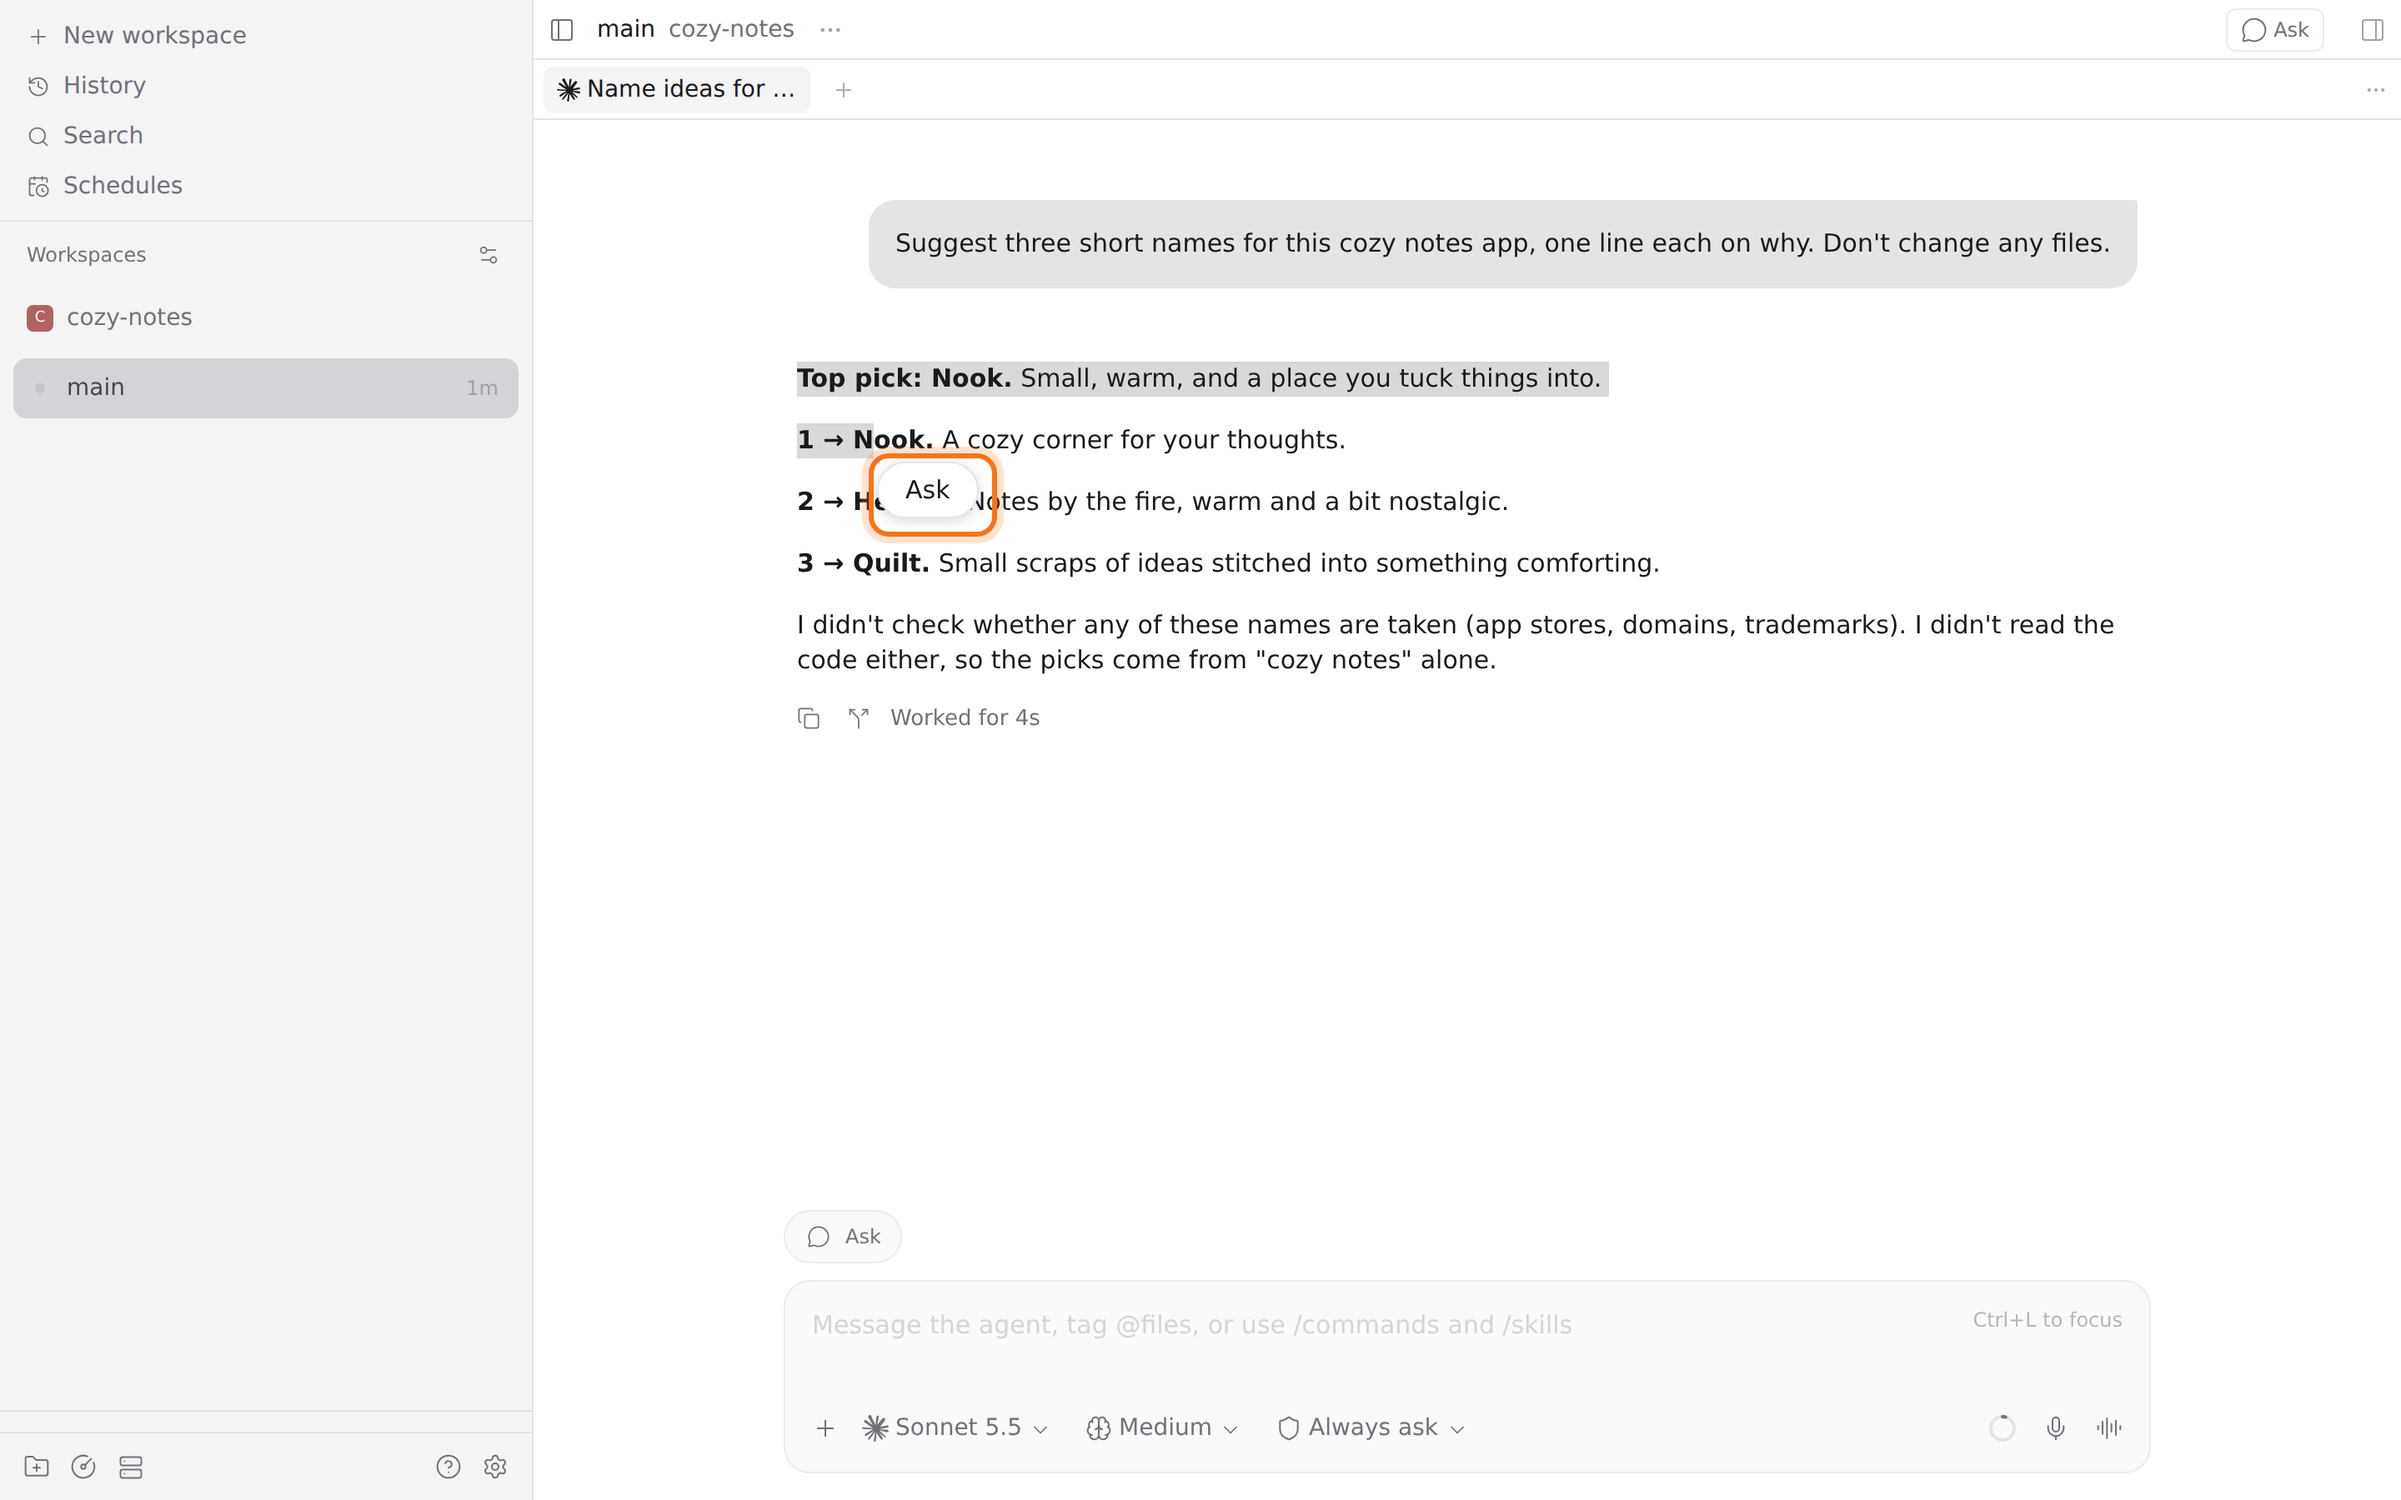
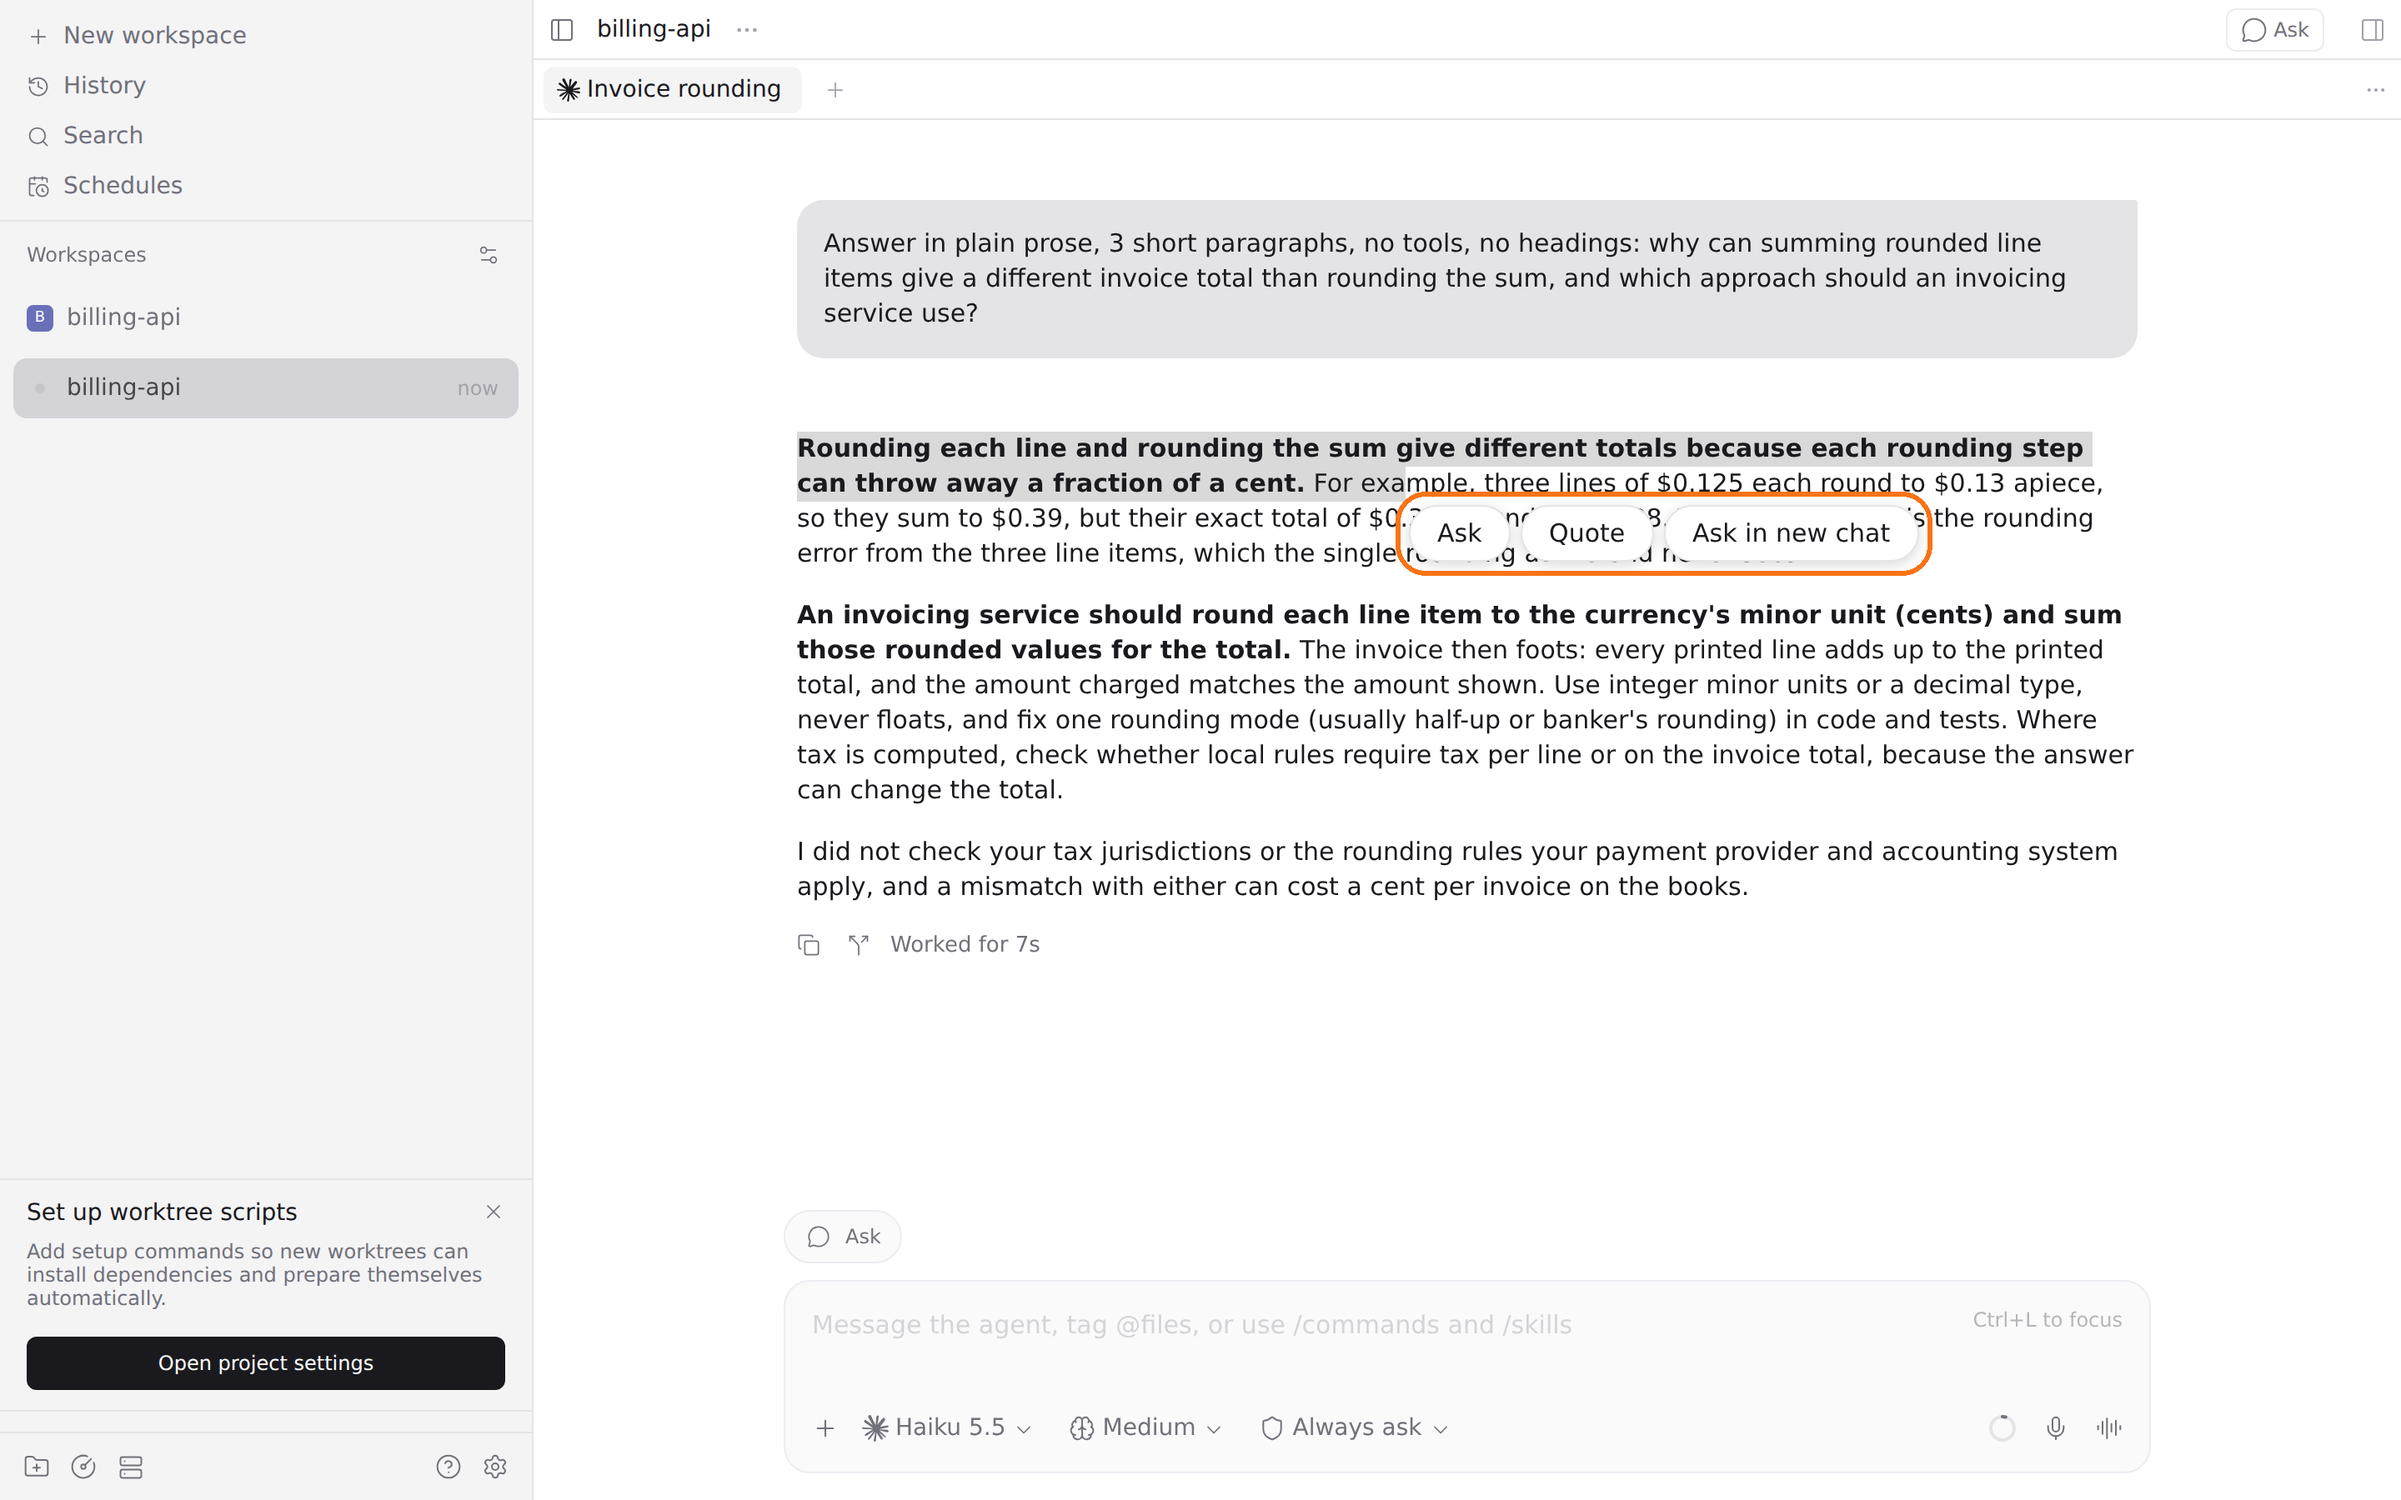
Screenshot: selection shows Ask, Quote and Ask in new chat
Taken against a throwaway demo daemon.

diff --git a/README.md b/README.md
@@ -14,7 +14,7 @@ Ask opens as a floating window or as a tab in the right-hand panel (Settings →
 
 ![The Ask buttons, outlined: workspace header and agent composer](assets/screenshot-buttons.png)
 
-![The Ask button at the end of a text selection, outlined](assets/screenshot-selection.png)
+![The Ask, Quote and Ask in new chat buttons on a text selection, outlined](assets/screenshot-selection.png)
 
 **Runs with full access.** Each thread runs `claude -p --permission-mode bypassPermissions` in your home directory on the daemon, with your Claude Code settings, skills and MCP servers. It can read and change files and run commands without asking. Quoted text can carry instructions, for example from a web page an agent read, and Claude may follow them. Your questions and everything Claude reads go to Anthropic through your Claude Code login.
 
